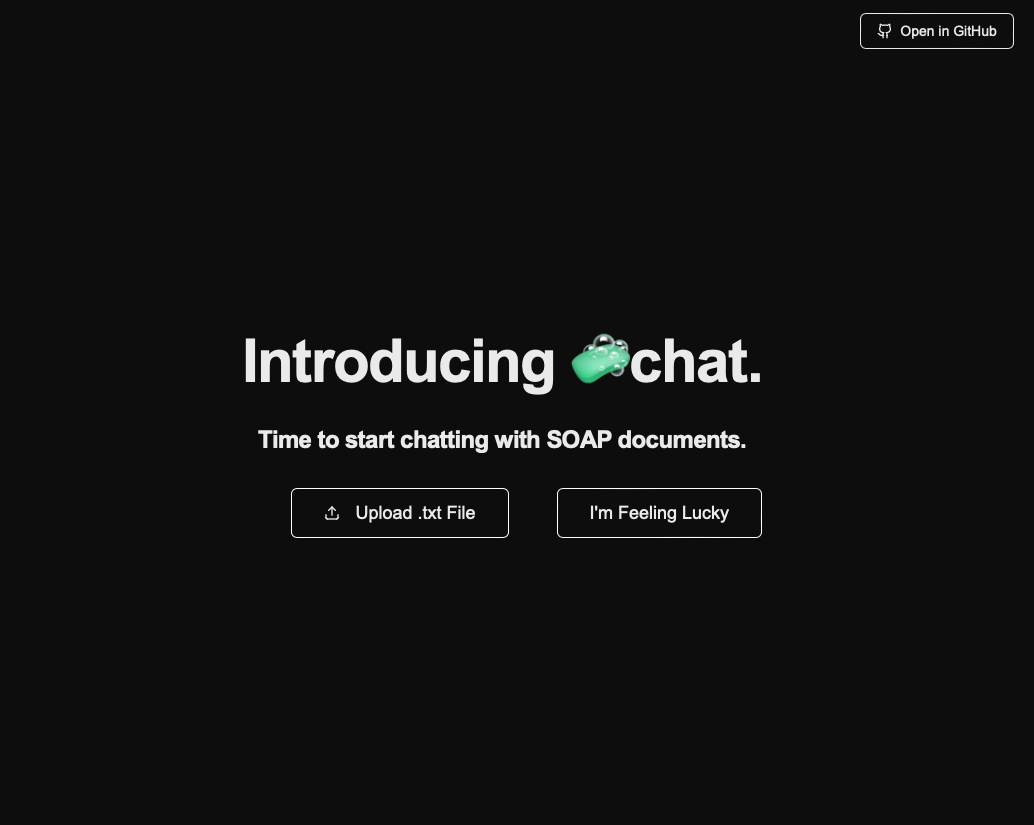
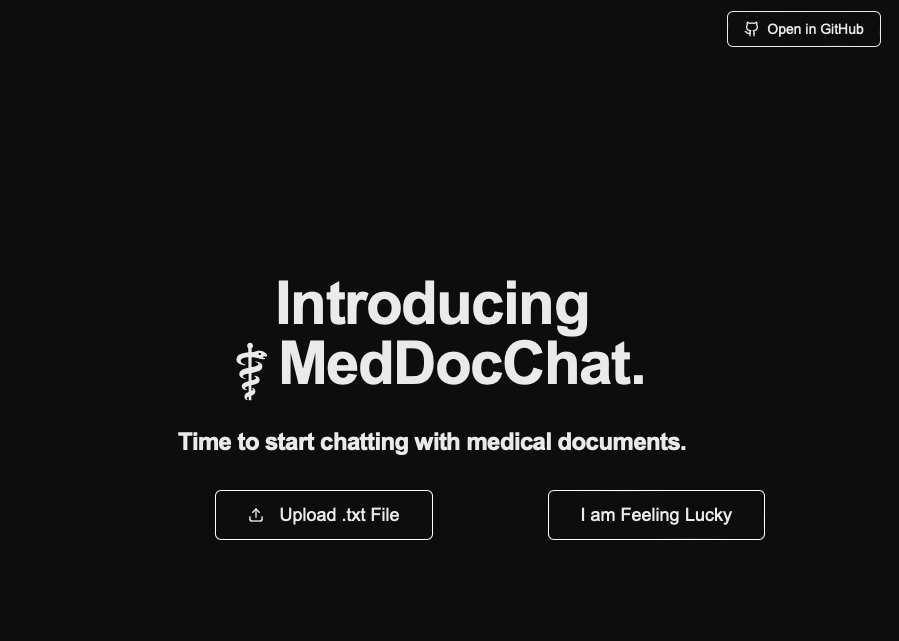
Minor updates

diff --git a/app/page.tsx b/app/page.tsx
@@ -6,10 +6,10 @@ export default function Home() {
     <div className="flex flex-col items-center justify-center min-h-[calc(100dvh-73px)] gap-8 px-4 bg-background">
       <div className="max-w-2xl text-center space-y-8">
         <h1 className="text-6xl font-bold tracking-tight">
-          Introducing 🧼chat.
+          Introducing ⚕MedDocChat.
         </h1>
         <h3 className="text-2xl font-bold tracking-tight">
-          Time to start chatting with SOAP documents.
+          Time to start chatting with medical documents.
         </h3>
         
         <div className="flex justify-center">

diff --git a/README.md b/README.md
@@ -1,11 +1,11 @@
-# SoapChat
+# ⚕ MedDocChat
 
-🧼Chat is a chatbot that allows you to converse with SOAP notes.
+⚕Chat is a chatbot that allows you to converse with SOAP notes.
 
-What 🧼Chat can do:<br>
-✅ Answer questions about SOAP notes (in .txt files) in an intuitive chatbot interface<br>
+What MedDocChat can do:<br>
+✅ Answer questions about medical documents (in .txt files) in an intuitive chatbot interface<br>
 ✅ Provides source attribution 💡 from medical document, ensuring trust in chatbot<br>
-✅ Stores SOAP notes in NoSQL distributed database (MongoDB is the only connection currently offered)<br>
+✅ Stores medical documents in NoSQL distributed database (MongoDB is the only connection currently offered)<br>
 ✅ Maintains conversational history when chatting with document, allowing for context to be maintained
 
 🛠 Project's Tech Stack:
@@ -76,7 +76,7 @@ uvicorn api.main:app --host 0.0.0.0 --port 8000 --reload
 1. Once everything is setup, you should be greeted by this landing page:
    ![Landing Page](./public/landing_page.png)
 
-You can generate examples of SOAP documents on ChatGPT, or download some examples under `docs/soap_sample.txt` and upload it (must be `.txt` format) by pressing the "Upload .txt File" button.
+You can generate examples of medical documents on ChatGPT, or download some examples under `docs` and upload it (must be `.txt` format) by pressing the "Upload .txt File" button.
 
 > **Note:** Currently, the "I'm Feeling Lucky" button is not supported. The idea was to pick a random example stored in the database of choice, but I did not have enough time to implement this.
 
